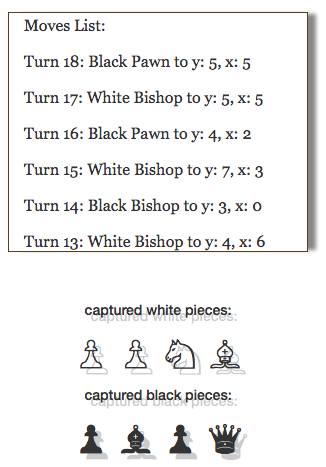
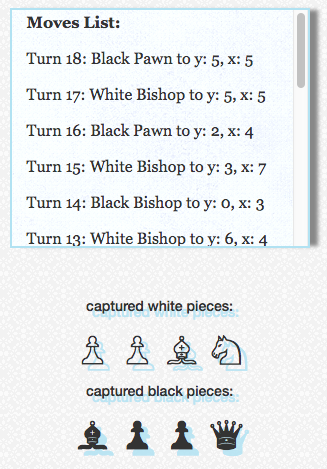
Add background texture to games show page

diff --git a/app/assets/stylesheets/games.scss b/app/assets/stylesheets/games.scss
@@ -2,6 +2,10 @@
 // They will automatically be included in application.css.
 // You can use Sass (SCSS) here: http://sass-lang.com/
 
+body {
+  background-image: url('light_grey.png');
+}
+
 #board {
   margin: auto;
   border: 4px solid #593c20;
